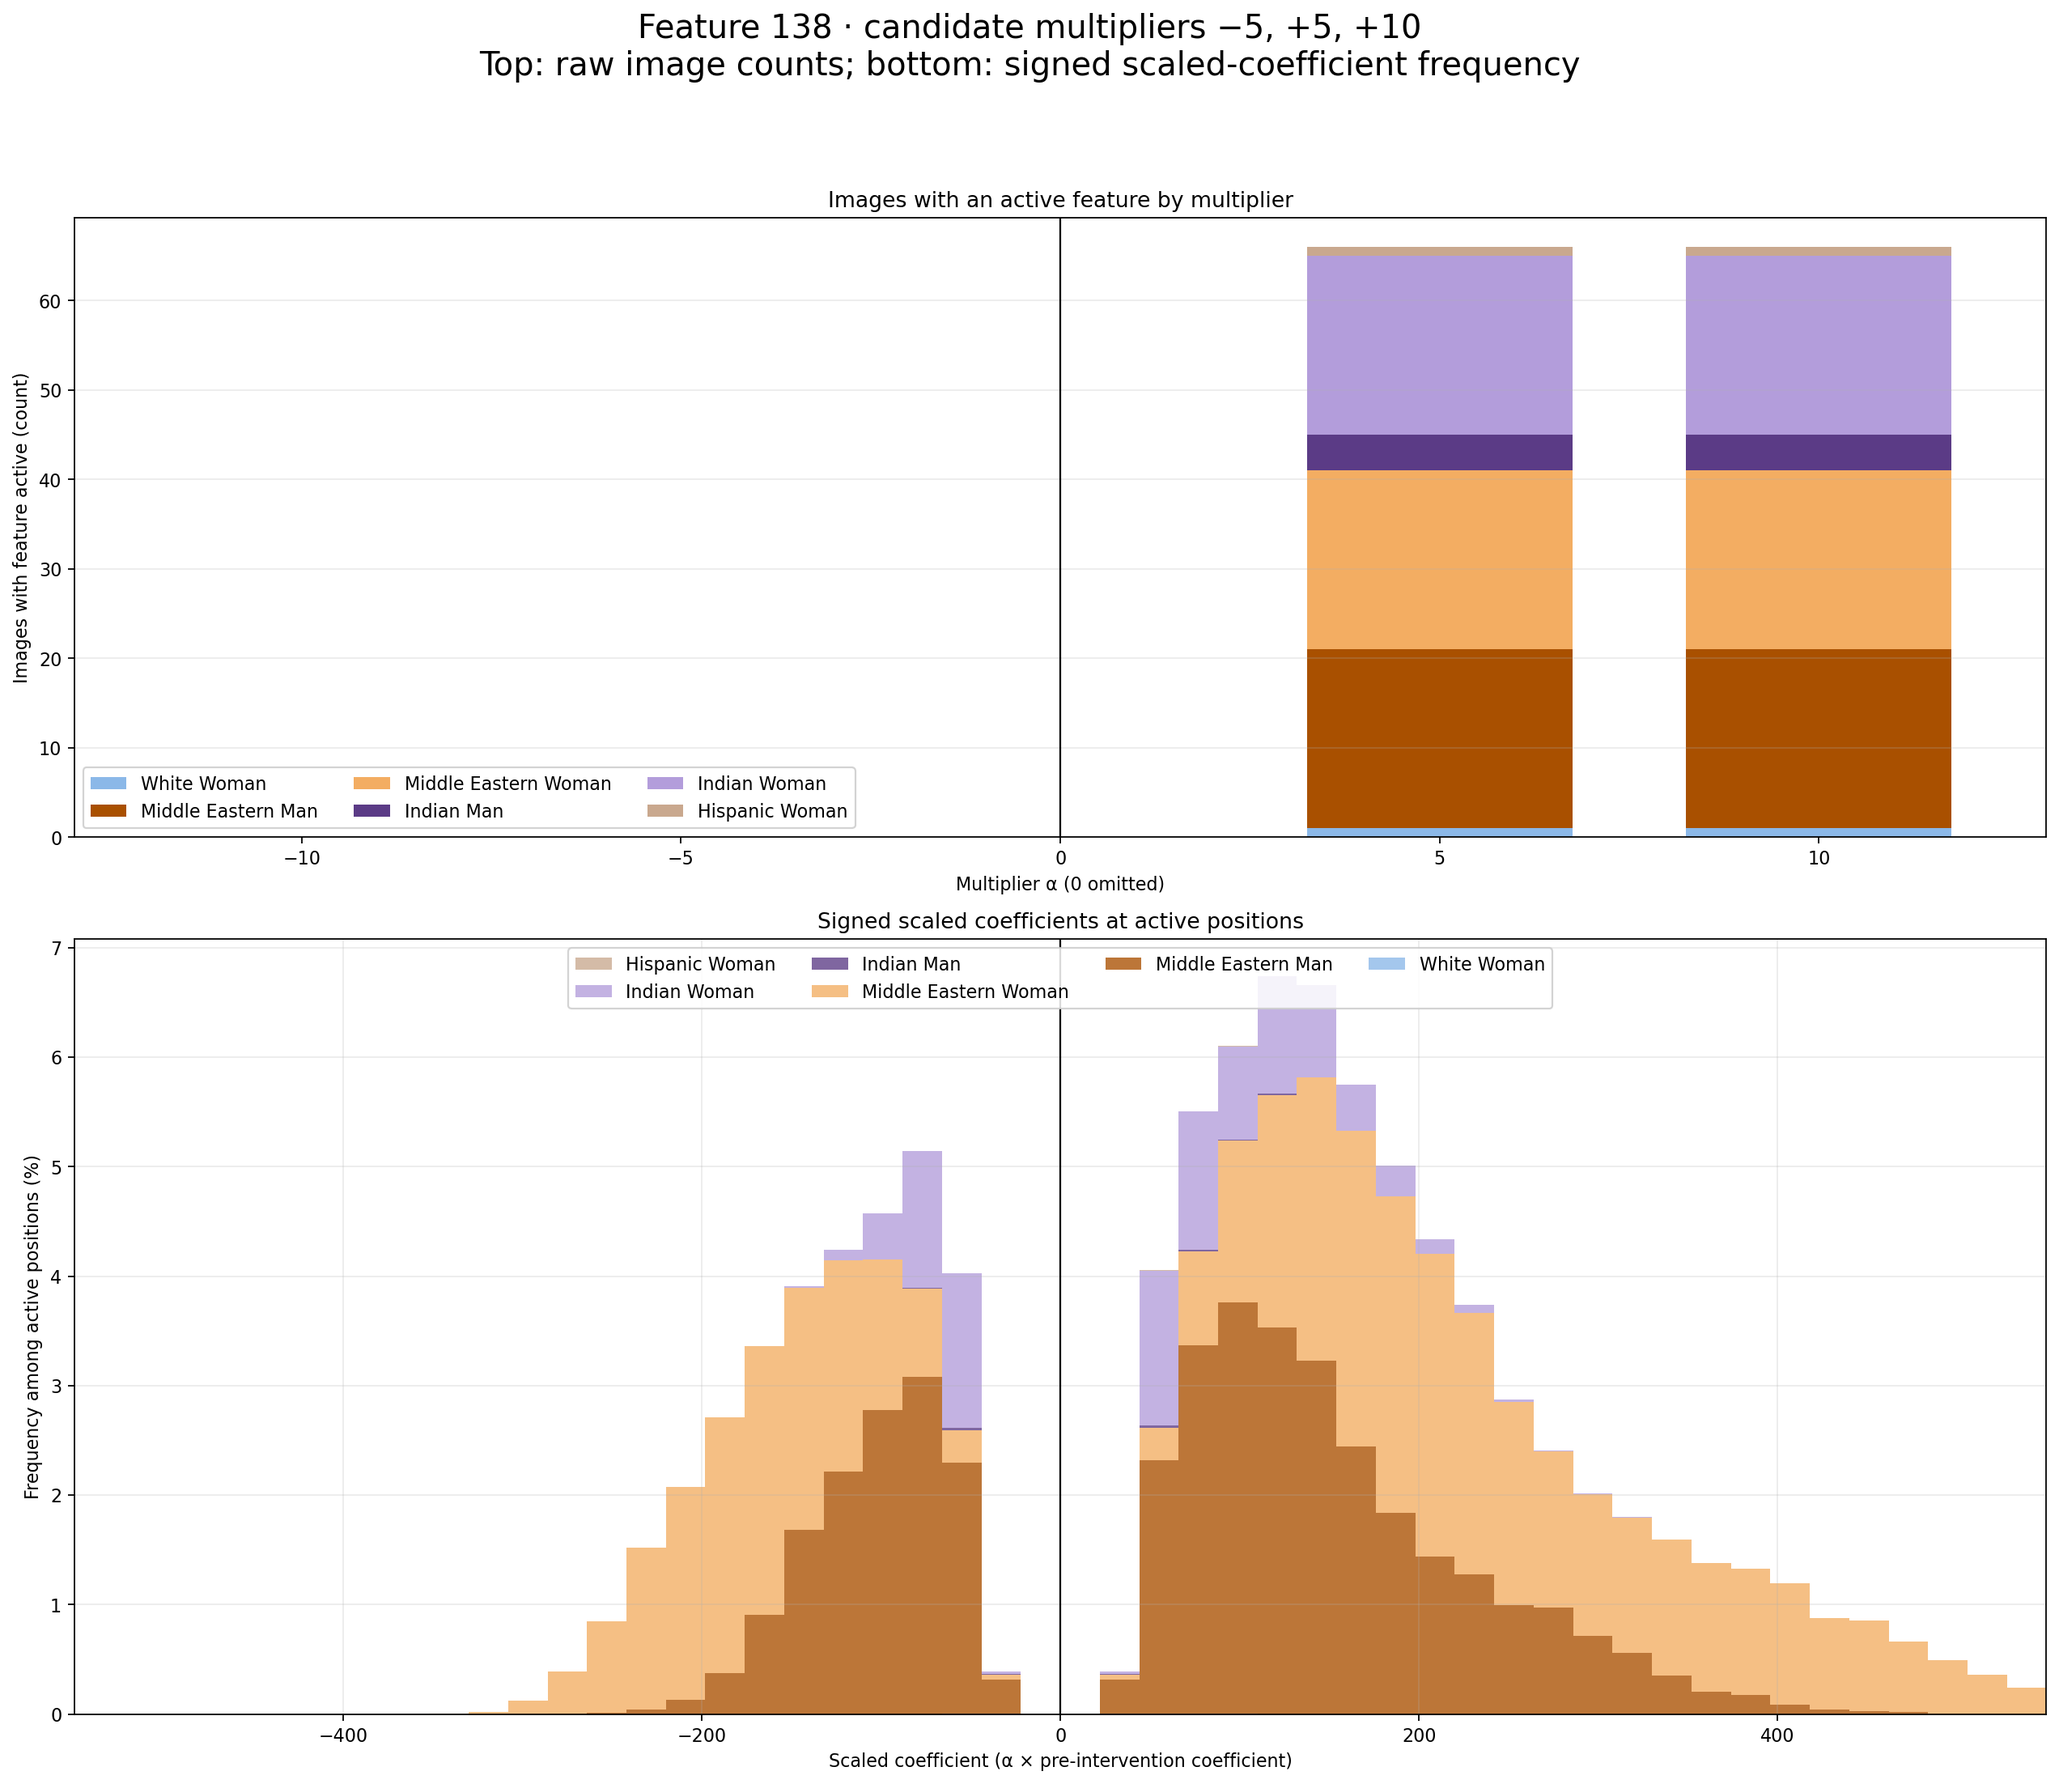
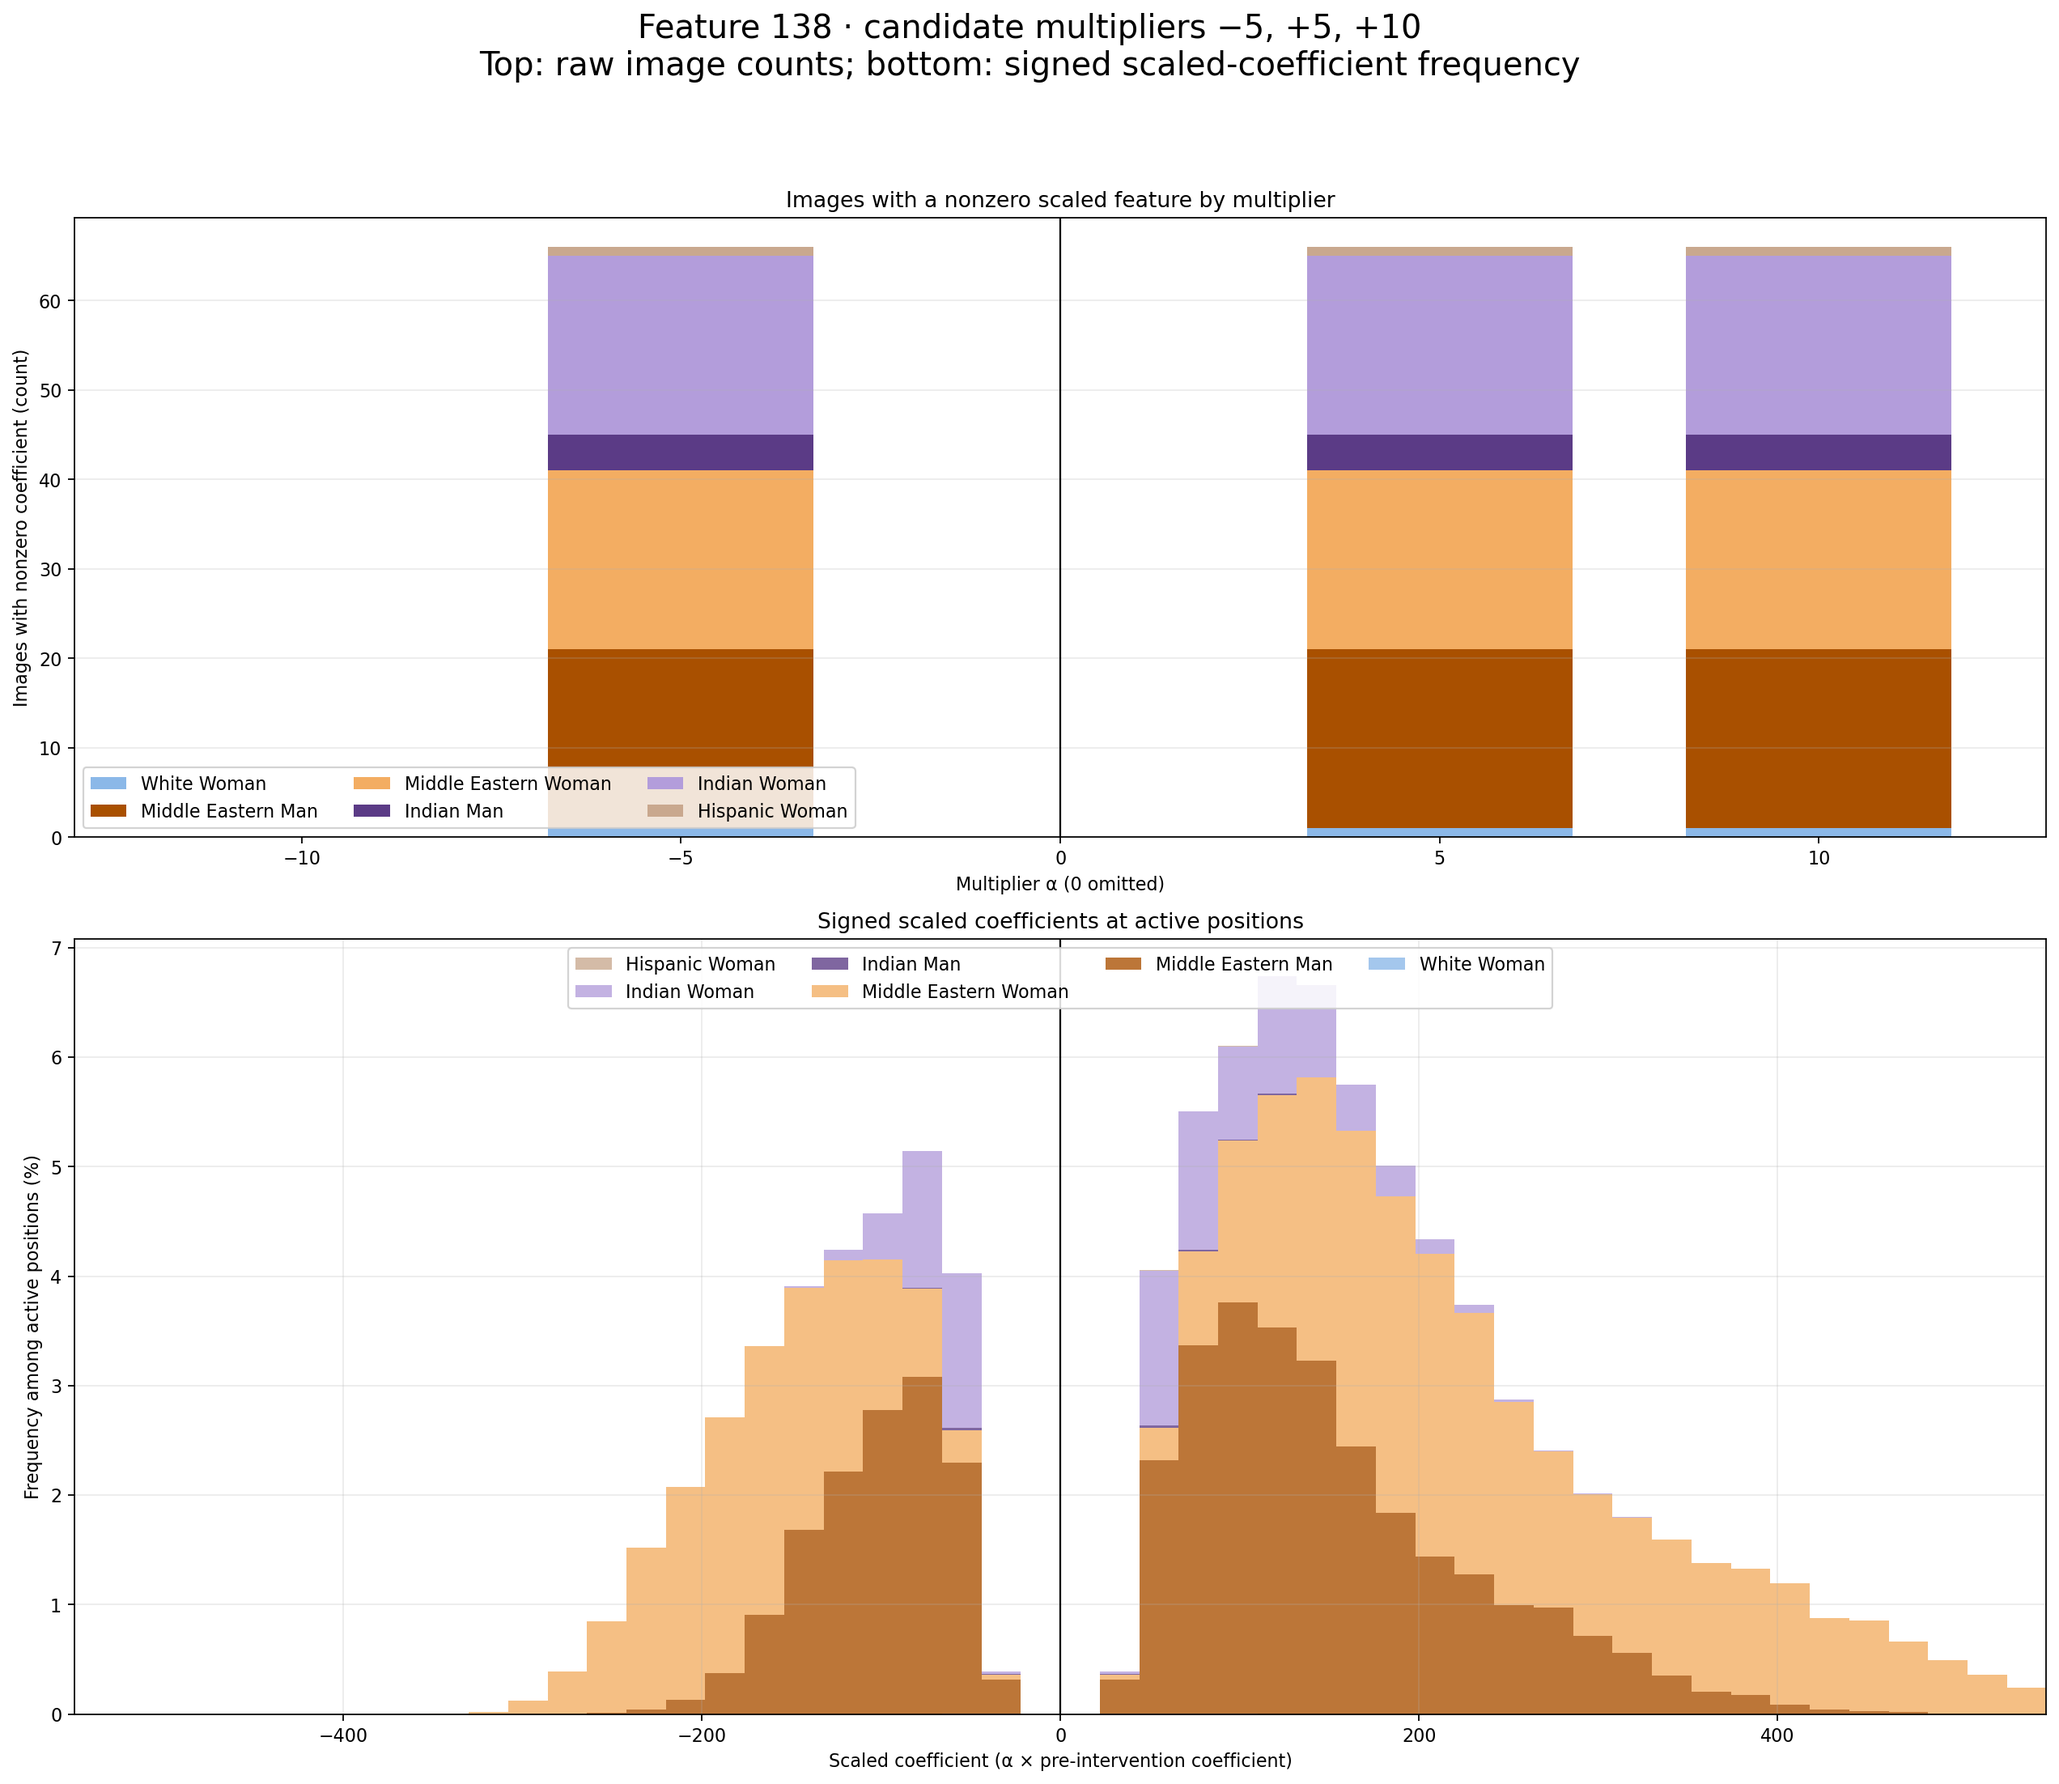
Count signed feature activity per image

Changed region(s): [[0.2484, 0.1234, 0.4037, 0.4936], [0.4037, 0.0926, 0.6521, 0.1234], [0.0, 0.216, 0.0311, 0.3702]]

diff --git a/sae-activation-tuning/tuning_activations/feature_138/render_histogram_preview.py b/sae-activation-tuning/tuning_activations/feature_138/render_histogram_preview.py
@@ -34,7 +34,6 @@ def main():
     groups = list(dict.fromkeys(key.split("|")[0] for key in keys))
     multipliers = [int(value) for value in maps["multipliers"]]
     alpha_indices = [multipliers.index(alpha) for alpha in PREVIEW_ALPHAS]
-    post = maps["post_reencoded_maps"]
     scaled = maps["scaled_coefficient_maps"]
     pre = maps["pre_maps"]
 
@@ -55,7 +54,7 @@ def main():
             continue
         indices = [i for i, key in enumerate(keys) if key.split("|")[0] == group]
         values = np.asarray([
-            np.count_nonzero(np.any(post[indices, alpha_index] > 0, axis=(1, 2)))
+            np.count_nonzero(np.any(scaled[indices, alpha_index] != 0, axis=(1, 2)))
             for alpha_index in alpha_indices
         ])
         if not np.any(values):
@@ -69,8 +68,8 @@ def main():
             label=GROUP_LABELS[group],
         )
         bottoms += values
-    ax_count.set_title("Images with an active feature by multiplier")
-    ax_count.set_ylabel("Images with feature active (count)")
+    ax_count.set_title("Images with a nonzero scaled feature by multiplier")
+    ax_count.set_ylabel("Images with nonzero coefficient (count)")
     ax_count.set_xlabel("Multiplier α (0 omitted)")
     ax_count.set_xticks((-10, -5, 0, 5, 10))
     ax_count.set_xlim(-13, 13)

diff --git a/sae-activation-tuning/tuning_activations/feature_138/README.md b/sae-activation-tuning/tuning_activations/feature_138/README.md
@@ -10,7 +10,7 @@ Run the full comparison with `python sae-activation-tuning/tuning_activations/fe
 
 The earlier scarf/no-scarf prompt experiment remains in `../race_gender_feature_interventions/feature_138/` as a separate prompt-controlled exploration. It is not used for the biased-dataset results here.
 
-`feature_138_histogram_preview_stacked.png` is rendered from the saved `run_biased_002/activation_maps.npz` by `render_histogram_preview.py`. Its top panel reports raw image counts: an image counts as active when at least one spatial position has a positive post-reencoded feature activation. The bottom panel continues to show the signed scaled-coefficient distribution. Both panels use symmetric x limits so zero aligns vertically.
+`feature_138_histogram_preview_stacked.png` is rendered from the saved `run_biased_002/activation_maps.npz` by `render_histogram_preview.py`. Its top panel reports raw image counts: an image counts as active when at least one spatial position has a nonzero signed scaled coefficient, including negative coefficients. The bottom panel shows the signed scaled-coefficient distribution. Both panels use symmetric x limits so zero aligns vertically.
 
 The run folders contain the per-image generated outputs locally. The GitHub result package contains the aggregate metrics, activation maps, settings, and visual-review sheets; the generated image folders are multi-gigabyte.
 
